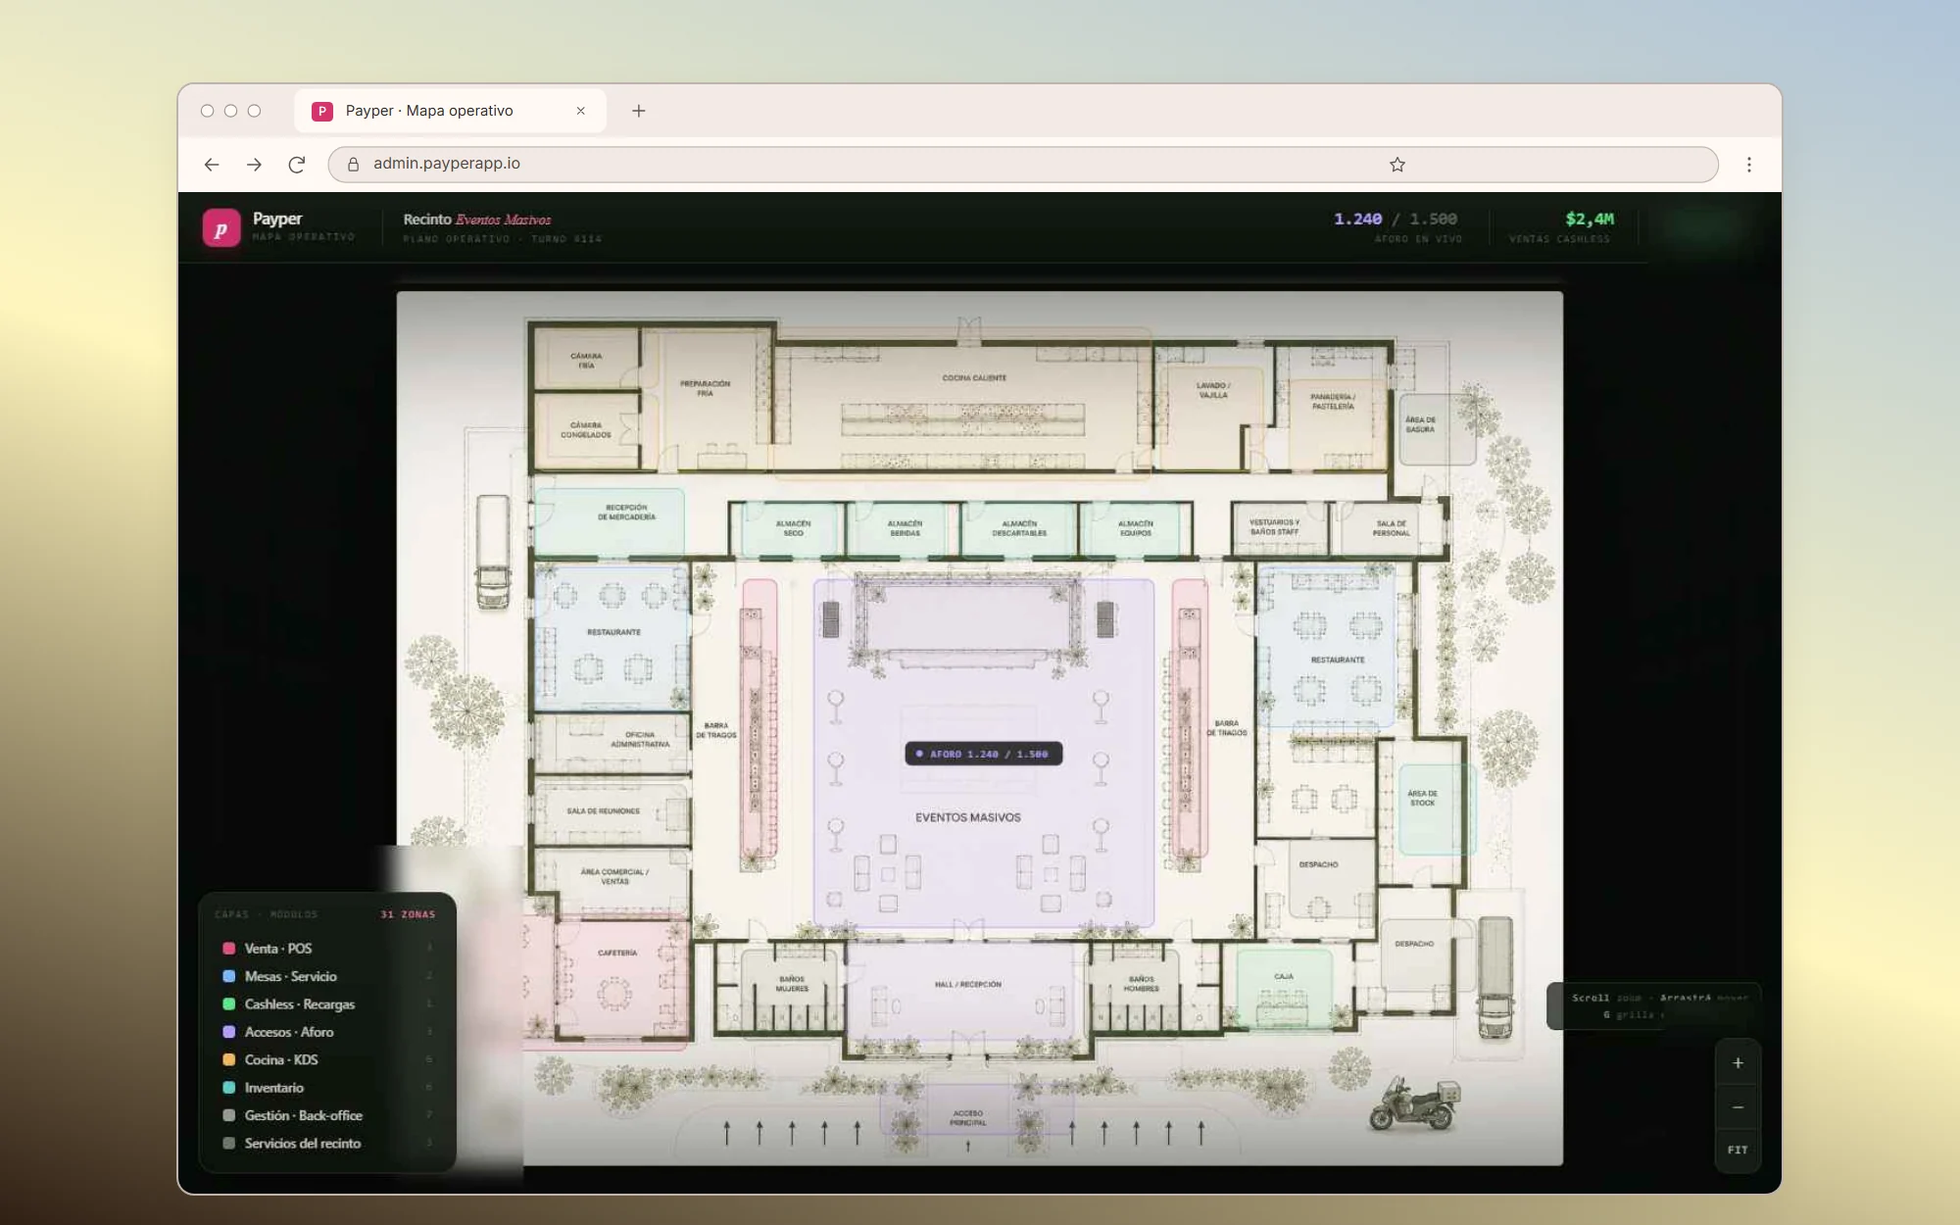
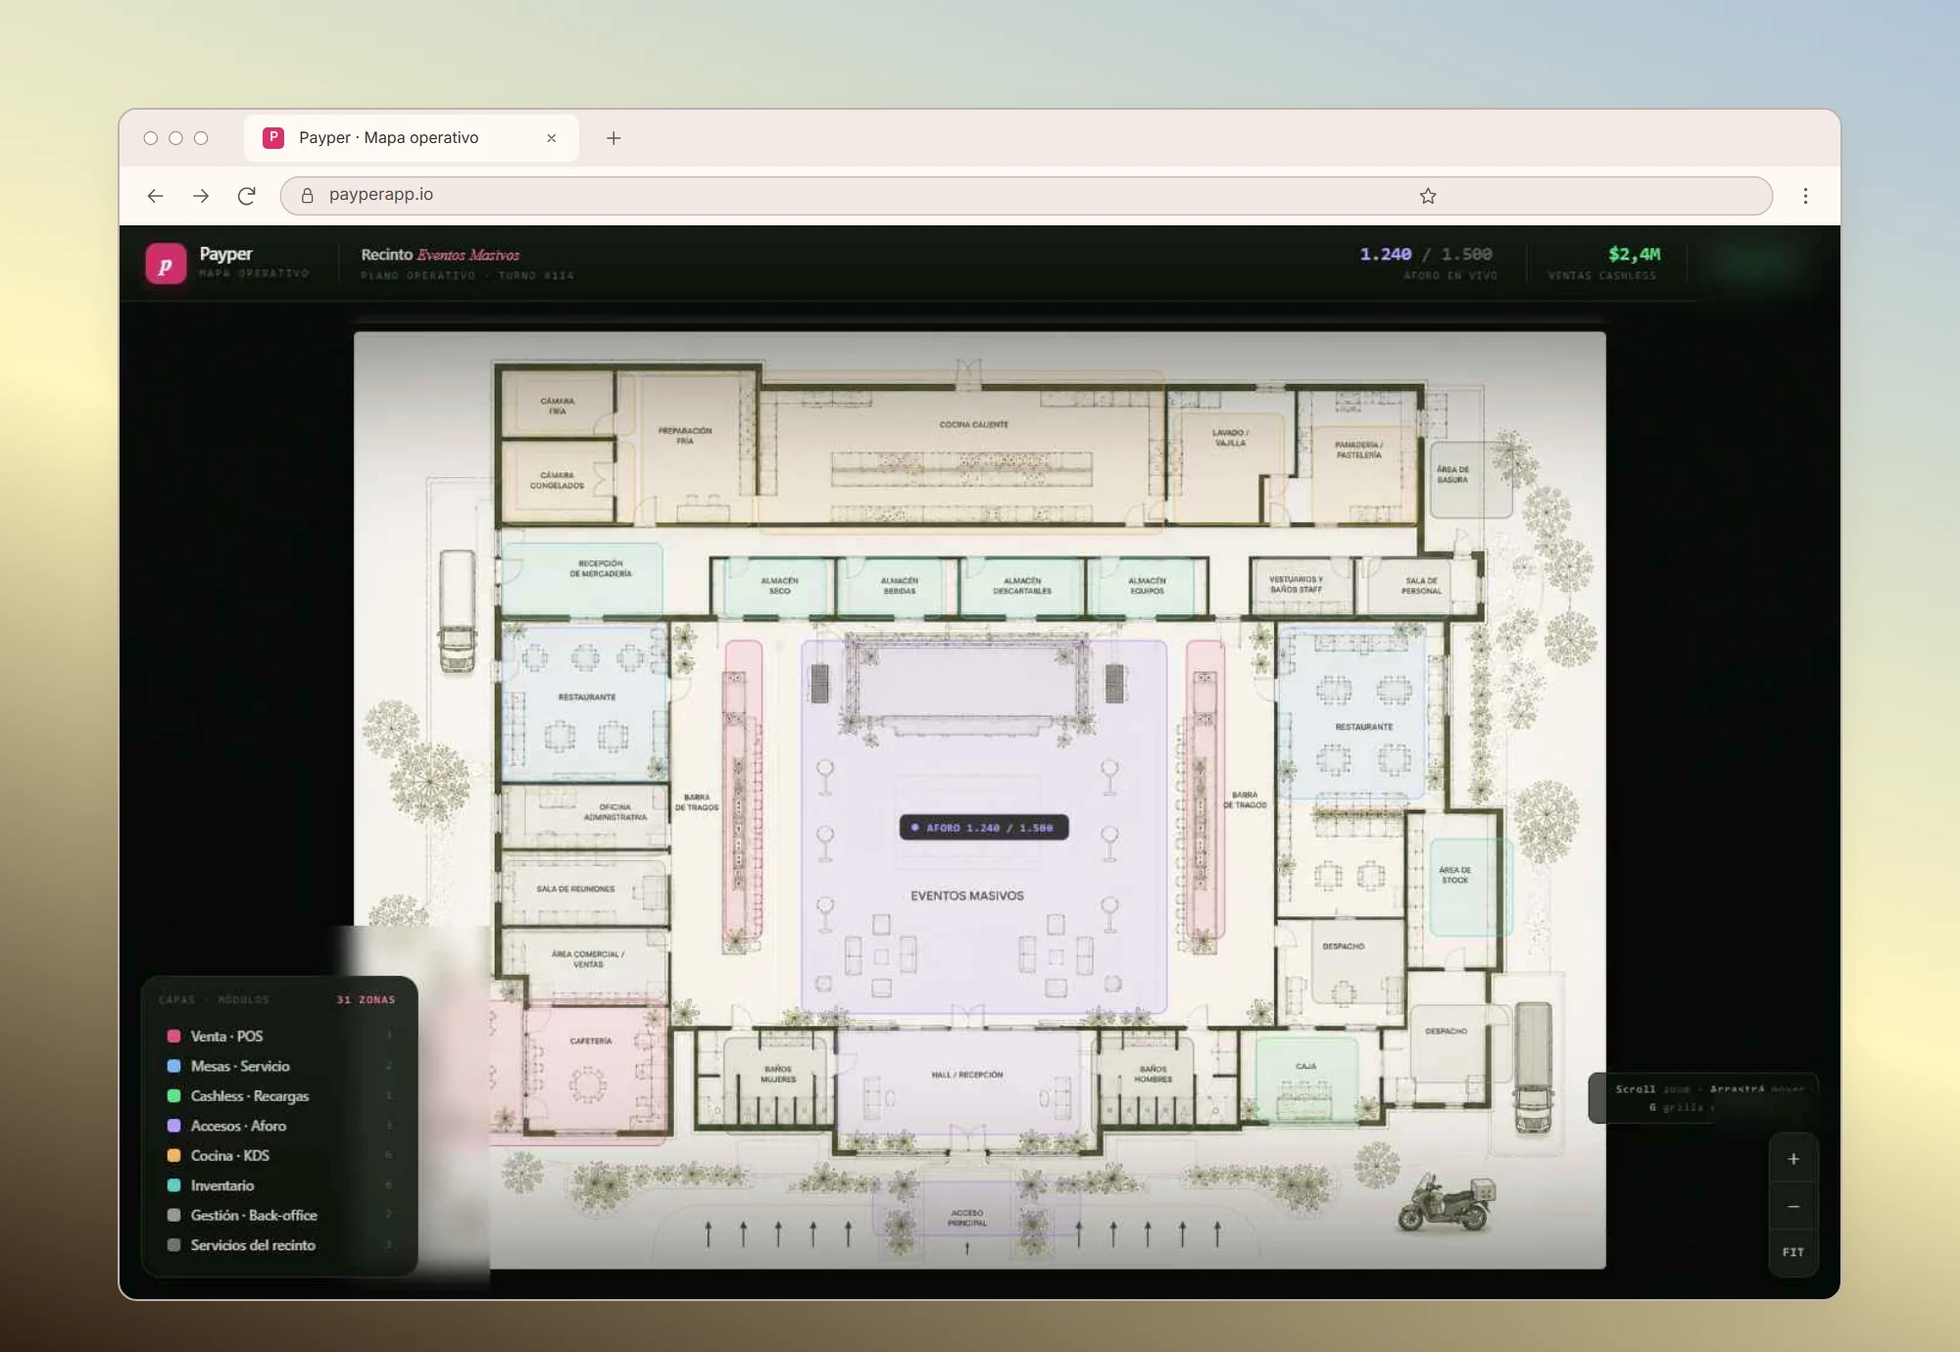
design(products): LegalFlow y CMS LIVV con capturas reales, y lo que cada producto dice que hace
- LegalFlow: la landing prometía bóveda cifrada, portal de clientes y
  facturación por horas, que el producto no tiene. Se rehace sobre el producto
  real (repo Abogados-Mori, paquete `legalflow`): contratos con asistente de
  IA, clientes, tareas y calendario, con capturas de la app corriendo sobre
  datos de ejemplo ficticios. Las preguntas dicen que no hay portal de
  clientes y que la interfaz está en castellano.
- CMS LIVV: deja de ser una página aparte de tres columnas de texto y pasa a
  la plantilla, con el editor real de páginas (livv-cms) capturado desde su
  playground de desarrollo. Gana preguntas y metadata propias.
- Los mockups se rearman con el navegador más grande dentro del lienzo, para
  que la pantalla se lea mejor.
- Selector de la home y /products: descripción y módulos reales de LegalFlow y
  del CMS; la vista previa de LegalFlow habla de contratos, no de expedientes.
- llms.txt y llms-full.txt: las líneas de Payper y LegalFlow dicen lo mismo que
  sus landings.

Changed region(s): [[0.062, 0.0624, 0.961, 0.9984], [0.465, 0.5928, 0.558, 0.624], [0.465, 0.6552, 0.527, 0.6864]]

diff --git a/lib/product-landings.ts b/lib/product-landings.ts
@@ -98,7 +98,7 @@ const landings: Record<string, ProductLanding> = {
                     src: "/images/products/payper/mapa.webp",
                     alt: "Payper's operations map: the floor plan of an events venue with its modules as layers and live capacity",
                     width: 2000,
-                    height: 1250,
+                    height: 1380,
                 },
             },
             {
@@ -108,7 +108,7 @@ const landings: Record<string, ProductLanding> = {
                     src: "/images/products/payper/resumen.webp",
                     alt: "Payper's owner summary: total sales for the week, transactions, estimated margin and sales by module",
                     width: 2000,
-                    height: 1250,
+                    height: 1380,
                 },
             },
             {
@@ -241,6 +241,178 @@ const landings: Record<string, ProductLanding> = {
                 "Campaign pages with applications",
                 "Performance per campaign and creator",
                 "Payments and reports",
+            ],
+            cta: { label: "Request a demo", href: "/contact" },
+        },
+    },
+
+    // Screens: the real app (repo Abogados-Mori, package `legalflow`) running
+    // on fictional sample data. Its interface is in Spanish.
+    legalflow: {
+        slug: "legalflow",
+        name: "LegalFlow",
+        kind: "Legal practice software",
+        headline: ["Contracts, clients and deadlines for your firm,", "in one workspace."],
+        lead: "LegalFlow is a workspace for law firms. An assistant drafts and refines contracts next to the text, and every client keeps their contracts, documents, tasks and dates in one place.",
+        facts: [
+            ["Built for", "Law firms and legal teams"],
+            ["Covers", "Contracts, documents, clients, tasks and calendar"],
+            ["Pricing", "From $59/mo"],
+        ],
+        cta: { label: "Request a demo", href: "/contact" },
+        hero: {
+            src: "/images/products/legalflow/hero.webp",
+            alt: "LegalFlow's dashboard: active clients, contracts in progress, pending tasks and the most recent contracts",
+            width: 2000,
+            height: 1380,
+        },
+        features: [
+            {
+                title: "Draft contracts with an assistant beside the text",
+                line: "Generate a first draft from the client, the type of contract and its context, then refine the text with a plain instruction.",
+                shot: {
+                    src: "/images/products/legalflow/contrato.webp",
+                    alt: "A lease contract open in LegalFlow, with the drafting assistant panel on the right",
+                    width: 2000,
+                    height: 1380,
+                },
+            },
+            {
+                title: "Every client, with their history",
+                line: "Contracts, documents and tasks on one timeline per client, from the day they were added.",
+                shot: {
+                    src: "/images/products/legalflow/cliente.webp",
+                    alt: "A client's timeline in LegalFlow: signed contracts, drafts and tasks in date order",
+                    width: 2000,
+                    height: 1380,
+                },
+            },
+            {
+                title: "The firm's work on one board",
+                line: "Tasks by status, with priority, practice area, due date, subtasks and who is on it.",
+                shot: {
+                    src: "/images/products/legalflow/tareas.webp",
+                    alt: "LegalFlow's task board with columns for to do, in progress and completed",
+                    width: 2000,
+                    height: 1380,
+                },
+            },
+            {
+                title: "Hearings and deadlines on the calendar",
+                line: "Events and task due dates share one month view, so nothing depends on memory.",
+                shot: {
+                    src: "/images/products/legalflow/calendario.webp",
+                    alt: "LegalFlow's calendar for a month, with hearings, signings and task deadlines",
+                    width: 2000,
+                    height: 1380,
+                },
+            },
+        ],
+        roles: {
+            heading: ["One firm,", "one shared workspace."],
+            items: [
+                { name: "Administrator", line: "Adds the team and gives each person their role." },
+                { name: "Lawyer", line: "Drafts and refines contracts, and follows each client." },
+                { name: "Paralegal", line: "Keeps documents filed and tasks moving." },
+                { name: "Assistant", line: "Runs the calendar and the day's follow-ups." },
+            ],
+        },
+        band: {
+            kind: "gradient",
+            line: "Your firm's work, in one place.",
+            caption: "LegalFlow, by LIVV Creative Studio.",
+        },
+        offer: {
+            heading: ["Licensed", "under your firm's brand."],
+            line: "LegalFlow is white-label software: LIVV sets it up with your firm's identity and keeps the product maintained.",
+            price: "From $59/mo",
+            priceNote: "Plus a one-time setup of $999",
+            includes: [
+                "Contract drafting with an AI assistant",
+                "Documents and clients",
+                "Task board and calendar",
+                "Team with roles",
+            ],
+            cta: { label: "Request a demo", href: "/contact" },
+        },
+    },
+
+    // Screens: the real page editor (livv-cms), captured from its dev
+    // playground. The dashboard behind the login is not shown yet — add those
+    // screens when there is a demo workspace to capture them from.
+    "cms-livv": {
+        slug: "cms-livv",
+        name: "CMS LIVV",
+        kind: "Website content management",
+        headline: ["Your website's content,", "edited by your own team."],
+        lead: "CMS LIVV is a headless CMS. The studio builds the site and connects it; your team edits pages, collections and images from a dashboard, and the site reads what you publish.",
+        facts: [
+            ["Built for", "Teams that edit their own site"],
+            ["Covers", "Pages, collections, media and publishing"],
+            ["Pricing", "On request"],
+        ],
+        cta: { label: "Request a demo", href: "/contact" },
+        hero: {
+            src: "/images/products/cms-livv/hero.webp",
+            alt: "The CMS LIVV page editor with a hero section open: its layers on the left, the fields in the middle and the section's properties on the right",
+            width: 2000,
+            height: 1280,
+        },
+        features: [
+            {
+                title: "Build pages from blocks",
+                line: "Nine block types, from hero to form, added and reordered from one panel.",
+                shot: {
+                    src: "/images/products/cms-livv/bloques.webp",
+                    alt: "The CMS LIVV page editor: the page's sections and the catalogue of blocks to add",
+                    width: 2000,
+                    height: 1280,
+                },
+            },
+            {
+                title: "Edit a section as a form",
+                line: "Each block opens as its own fields, with lists you can add to, reorder and remove.",
+                shot: {
+                    src: "/images/products/cms-livv/formulario.webp",
+                    alt: "A features block open in the CMS LIVV editor, with its heading and a repeatable list of items",
+                    width: 2000,
+                    height: 1280,
+                },
+            },
+            {
+                title: "Write and format in place",
+                line: "Rich text with headings, lists and links, saved to the section it belongs to.",
+                shot: {
+                    src: "/images/products/cms-livv/texto.webp",
+                    alt: "A rich text block being edited in CMS LIVV, with its formatting bar",
+                    width: 2000,
+                    height: 1280,
+                },
+            },
+        ],
+        roles: {
+            heading: ["Built by the studio,", "edited by you."],
+            items: [
+                { name: "Studio", line: "Builds the site and connects it through the read API or the React SDK." },
+                { name: "Your team", line: "Edits pages, collection items and images, and publishes when ready." },
+            ],
+        },
+        band: {
+            kind: "gradient",
+            line: "Built once. Edited by you.",
+            caption: "CMS LIVV, by LIVV Creative Studio.",
+        },
+        offer: {
+            heading: ["Set up", "with your site."],
+            line: "CMS LIVV comes with a site LIVV builds or connects for you. Tell us what your team needs to edit and we scope it.",
+            price: "On request",
+            priceNote: "Quoted with your site",
+            includes: [
+                "Page editor with nine block types",
+                "Collections with drafts and publishing",
+                "Media library",
+                "Read API and React SDK",
+                "Roles and invitations by email",
             ],
             cta: { label: "Request a demo", href: "/contact" },
         },

diff --git a/lib/product-faqs.ts b/lib/product-faqs.ts
@@ -62,19 +62,46 @@ export const productFaqs: Record<string, ProductFaq[]> = {
   legalflow: [
     {
       q: "What is LegalFlow?",
-      a: "LegalFlow is a white-label case and document management system for law firms, built by LIVV Creative Studio. It centralises clients, cases, deadlines, document automation and a secure client portal in one branded platform.",
+      a: "LegalFlow is practice management software for law firms, built by LIVV Creative Studio. It brings contract drafting with an AI assistant, documents, clients, tasks, the calendar and the team into one workspace.",
+    },
+    {
+      q: "How does the contract assistant work?",
+      a: "You choose the client and the type of contract, add the context, and the assistant previews and writes a draft you edit in place. From there you can ask it to refine the text with a plain instruction.",
+    },
+    {
+      q: "Is there a portal for the firm's clients?",
+      a: "No. LegalFlow is built for the firm's internal work: lawyers, paralegals and assistants use it; clients do not log in.",
+    },
+    {
+      q: "What language is LegalFlow in?",
+      a: "The interface is in Spanish today.",
     },
     {
       q: "How much does LegalFlow cost?",
-      a: "LegalFlow is licensed from USD 59 per month plus a one-time USD 999 setup, which includes end-to-end case workflows, advanced security features, onboarding support and custom domain setup.",
+      a: "LegalFlow is licensed from USD 59 per month plus a one-time USD 999 setup.",
+    },
+  ],
+
+  "cms-livv": [
+    {
+      q: "What is CMS LIVV?",
+      a: "CMS LIVV is a headless content management system built by LIVV Creative Studio. The studio builds the site and connects it to the CMS; your team edits pages, collections and images from a dashboard, and the site reads the published content.",
     },
     {
-      q: "Is LegalFlow secure enough for legal documents?",
-      a: "LegalFlow stores documents in an encrypted vault rather than a generic cloud drive, with a secure client portal for messaging and file sharing, so case material stays inside a system designed for legal work.",
+      q: "Does my site have to be hosted by LIVV?",
+      a: "No. A site hosted anywhere reads its content through the public read API or the React SDK. CMS LIVV also includes its own renderer for sites LIVV hosts.",
     },
     {
-      q: "Can a law firm run LegalFlow under its own brand?",
-      a: "Yes. LegalFlow is white-label, so the firm's identity and domain are what clients see. Setup includes branding and custom domain configuration.",
+      q: "Who can edit?",
+      a: "A workspace has four roles: owner, admin, editor and viewer. People join by email invitation.",
+    },
+    {
+      q: "Does a change go live as soon as I save it?",
+      a: "Pages and collection items are either draft or published, and only published content is served. For a site hosted on Vercel or Netlify, a deploy hook rebuilds it from the dashboard.",
+    },
+    {
+      q: "How much does CMS LIVV cost?",
+      a: "It is quoted together with the site it runs, because the setup depends on what your team needs to edit.",
     },
   ],
 

diff --git a/app/products/[slug]/layout.tsx b/app/products/[slug]/layout.tsx
@@ -40,13 +40,22 @@ const productMeta: Record<
   },
   legalflow: {
     name: "LegalFlow",
-    title: "LegalFlow — Case Management, Automated | LIVV Creative Studio",
+    title: "LegalFlow — Contracts, Clients and Deadlines for Law Firms | LIVV Creative Studio",
     description:
-      "Secure case management, document automation, and client collaboration for law firms that want to move faster. Built by LIVV Creative Studio (Buenos Aires, Argentina).",
+      "LegalFlow is practice management software for law firms: contract drafting with an AI assistant, documents, clients, tasks and calendar in one workspace. Built by LIVV Creative Studio (Buenos Aires, Argentina).",
     shortDescription:
-      "Case management and document automation for modern law firms. White-label SaaS by LIVV Creative Studio.",
+      "Practice management for law firms — AI-assisted contract drafting, clients, tasks and calendar. White-label SaaS by LIVV Creative Studio.",
     category: "Legal Tech SaaS",
     priceFromUSD: 59,
+  },
+  "cms-livv": {
+    name: "CMS LIVV",
+    title: "CMS LIVV — A Headless CMS Your Team Can Edit | LIVV Creative Studio",
+    description:
+      "CMS LIVV is a headless CMS: the studio builds the site and your team edits pages, collections and images from a dashboard, with drafts, publishing and roles. Built by LIVV Creative Studio (Buenos Aires, Argentina).",
+    shortDescription:
+      "Headless CMS with a block-based page editor, collections, media and a read API. Built by LIVV Creative Studio.",
+    category: "Content Management",
   },
   registrar: {
     name: "Registrar",

diff --git a/lib/marketplace-data.ts b/lib/marketplace-data.ts
@@ -76,11 +76,11 @@ export const projects: Project[] = [
         id: "3",
         slug: "legalflow",
         title: "LegalFlow",
-        category: "Legal · Workflow Automation",
+        category: "Legal · Practice Management",
         description:
-            "Case and document management system for law firms. Centralizes clients, cases, deadlines and internal workflows.",
-        outcome: "Centralize cases, documents and deadlines.",
-        modules: ["Cases", "Documents", "Deadlines"],
+            "Practice management for law firms. Contract drafting with an AI assistant, plus documents, clients, tasks and calendar in one workspace.",
+        outcome: "Draft contracts and run the firm from one place.",
+        modules: ["Contracts", "Clients", "Tasks"],
         licenseFrom: 59,
         screen: "cases",
         accent: "#8a7e74",
@@ -93,9 +93,9 @@ export const projects: Project[] = [
         title: "CMS LIVV",
         category: "Content · Website Management",
         description:
-            "Manage website content, portfolio projects and products from one workspace.",
-        outcome: "Manage your website content in one place.",
-        modules: ["Portfolio", "Products", "Categories"],
+            "Headless CMS: the studio builds the site and your team edits pages, collections and images from one dashboard.",
+        outcome: "Edit your website's content yourself.",
+        modules: ["Pages", "Collections", "Media"],
         screen: "board",
         accent: "#a0694f",
         clipCount: 0,

diff --git a/components/sections/product-system.tsx b/components/sections/product-system.tsx
@@ -65,19 +65,19 @@ const SNAPSHOTS: Record<string, Snapshot> = {
         meta: "CAMPAIGNS 4",
     },
     legalflow: {
-        status: "Docket up to date",
-        working: "Indexing documents",
-        description: "Active cases, with every document filed and every deadline tracked.",
-        total: 142,
+        status: "Contracts on track",
+        working: "Drafting contract",
+        description: "Contracts this month, each tied to its client, its tasks and its dates.",
+        total: 42,
         rows: [
-            ["HEARING · CASE 2291", "MON"],
-            ["FILING DUE · CASE 1874", "48H"],
+            ["LEASE DRAFT · IN REVIEW", "TODAY"],
+            ["HEARING · MON 11:30", "AGENDA"],
         ],
         meters: [
-            ["DOCS FILED", 91, "91%"],
-            ["ON TIME", 98, "98%"],
+            ["SIGNED", 68, "68%"],
+            ["TASKS ON TIME", 94, "94%"],
         ],
-        meta: "NEXT DEADLINE 48H",
+        meta: "CLIENTS 10",
     },
     registrar: {
         status: "Month balanced",

diff --git a/components/products/product-landing.tsx b/components/products/product-landing.tsx
@@ -268,7 +268,7 @@ function Band({ band, content }: { band: ProductBand; content: Content }) {
                         ) : (
                             <>
                                 <div className="absolute inset-0 bg-[linear-gradient(35deg,#440c15_0%,#440c15_34%,#ecd2cc_78%,#8d9661_100%)]" />
-                                <p className="absolute left-6 top-6 max-w-[16ch] text-[2rem] font-light leading-[1.05] tracking-[-0.04em] md:left-10 md:top-10 md:text-[3.25rem]">
+                                <p className="absolute left-6 top-6 max-w-[13ch] text-[2rem] font-light leading-[1.05] tracking-[-0.04em] text-balance md:left-10 md:top-10 md:text-[3.25rem]">
                                     {band.line}
                                 </p>
                             </>
